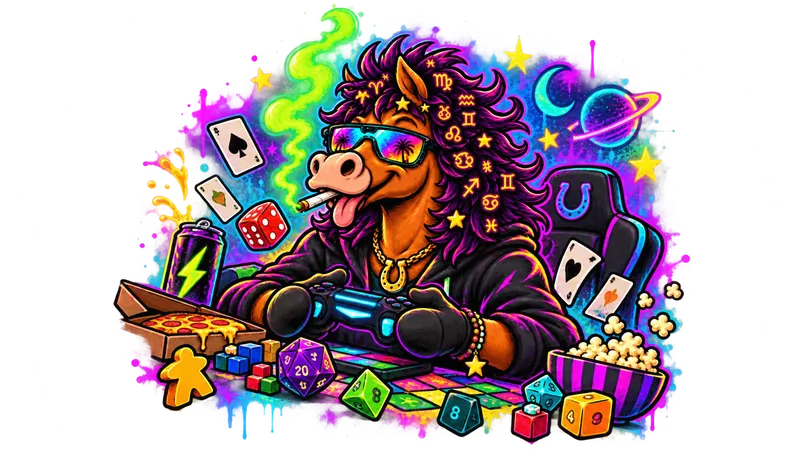
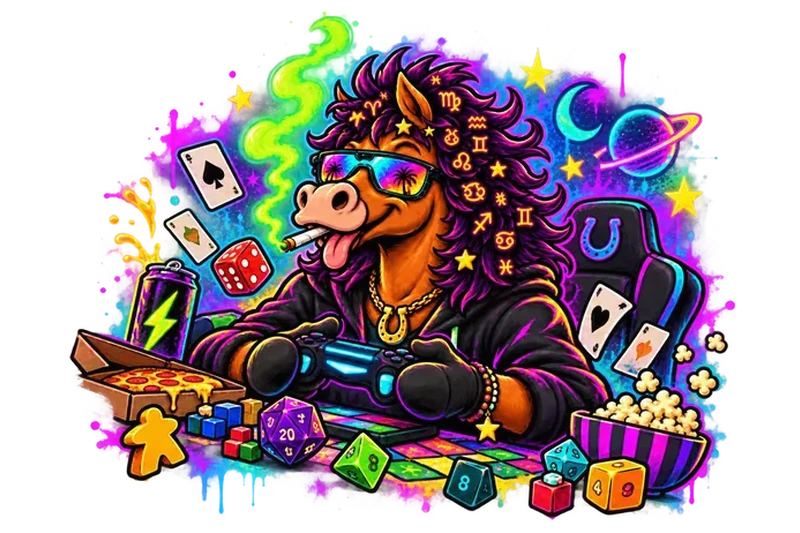
Uniforma sorgenti, centratura e dimensioni delle card attività
Porta tutte le illustrazioni a 800×533, allinea i riquadri e impedisce a immagini e testi di debordare dalle card.

diff --git a/landing/style.css b/landing/style.css
@@ -317,6 +317,7 @@ input.invalid { border-color: var(--color-error); }
   display: grid;
   gap: 8px;
   align-content: start;
+  min-width: 0;
   padding: 16px 18px 22px;
   background: var(--color-surface);
   border: 1px solid var(--color-line);
@@ -329,12 +330,24 @@ input.invalid { border-color: var(--color-error); }
   display: grid;
   place-items: center;
   width: 100%;
+  min-width: 0;
+  min-height: 0;
   aspect-ratio: 16 / 9;
+  overflow: hidden;
   margin-bottom: 6px;
 }
-.card-art img { width: 100%; height: 100%; object-fit: contain; }
+.card-art img {
+  width: 100%;
+  height: 100%;
+  min-width: 0;
+  min-height: 0;
+  max-width: 100%;
+  max-height: 100%;
+  object-fit: contain;
+  object-position: center;
+}
 .card h3 { font-size: 1.3rem; color: var(--accent); }
-.card p { color: var(--color-text-muted); }
+.card p { min-width: 0; color: var(--color-text-muted); overflow-wrap: anywhere; }
 .card-pink { --accent: var(--color-pink); }
 .card-cyan { --accent: var(--color-cyan); }
 .card-yellow { --accent: var(--color-yellow); }

diff --git a/landing/index.html b/landing/index.html
@@ -155,7 +155,7 @@
           </article>
           <article class="card card-cyan">
             <div class="card-art">
-              <img src="assets/illustrations/game-night.webp" width="800" height="450" loading="lazy"
+              <img src="assets/illustrations/game-night.webp?v=2" width="800" height="533" loading="lazy"
                    alt="Lo stallone con il controller in mano, circondato da dadi, carte e pizza">
             </div>
             <h3>Game night</h3>
